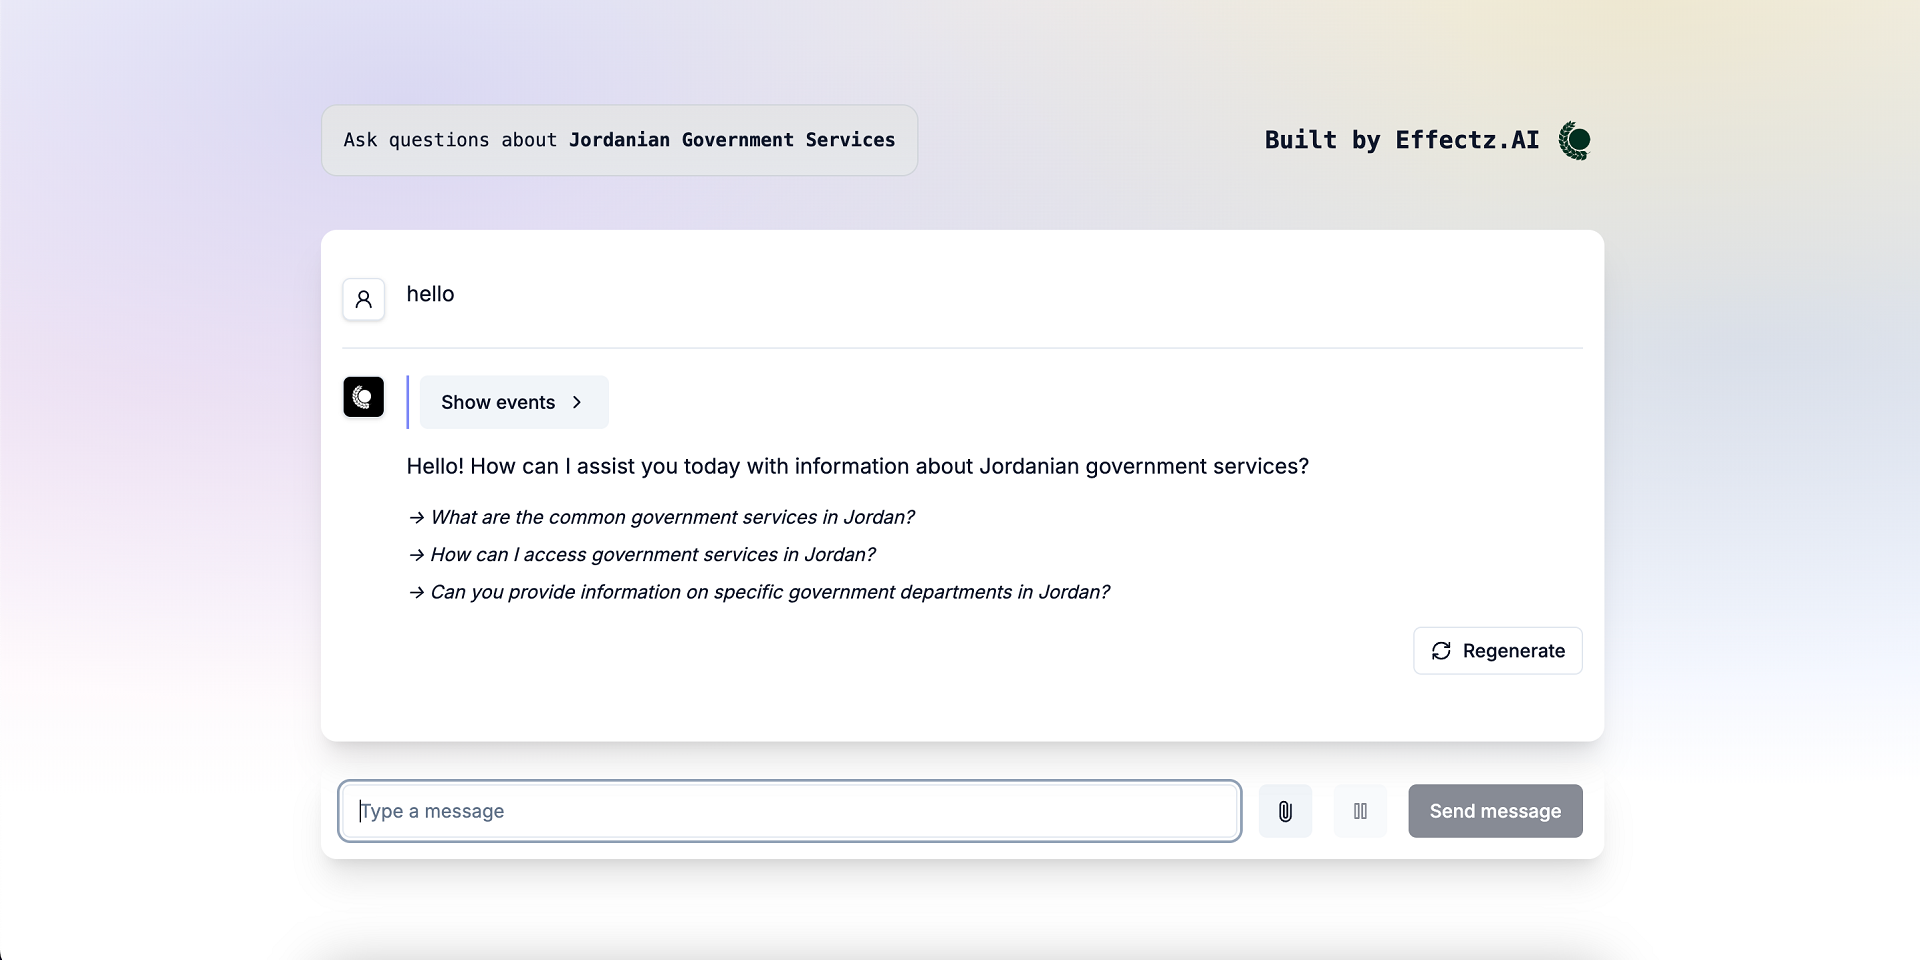
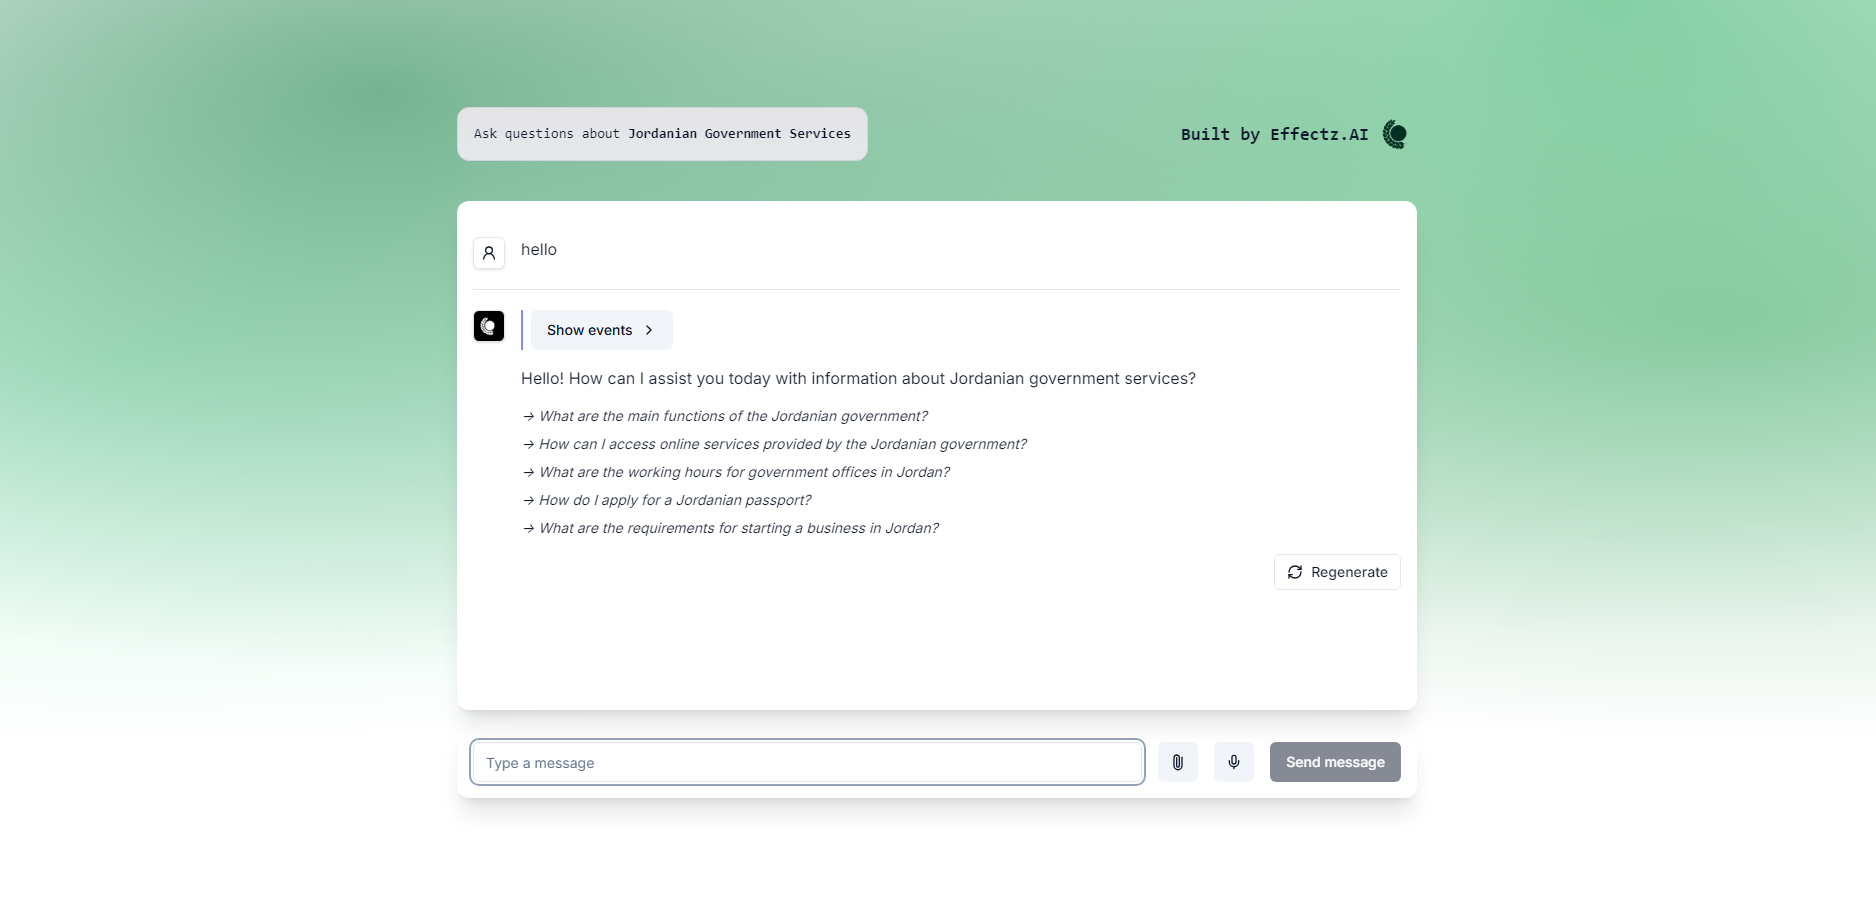
Changed chat background

diff --git a/effectzgpt/frontend/app/globals.css b/effectzgpt/frontend/app/globals.css
@@ -85,13 +85,10 @@
   }
   .background-gradient {
     background-color: #fff;
-    background-image: radial-gradient(
-        at 21% 11%,
-        rgba(186, 186, 233, 0.53) 0,
-        transparent 50%
-      ),
-      radial-gradient(at 85% 0, hsla(46, 57%, 78%, 0.52) 0, transparent 50%),
-      radial-gradient(at 91% 36%, rgba(194, 213, 255, 0.68) 0, transparent 50%),
-      radial-gradient(at 8% 40%, rgba(251, 218, 239, 0.46) 0, transparent 50%);
+    background-image: 
+    radial-gradient(at 21% 11%, rgba(5, 114, 54, 0.53) 0, transparent 50%), 
+    radial-gradient(at 85% 0, hsla(146, 64%, 41%, 0.52) 0, transparent 50%), 
+    radial-gradient(at 91% 36%, rgba(127, 194, 148, 0.68) 0, transparent 50%), 
+    radial-gradient(at 8% 40%, rgba(146, 240, 193, 0.46) 0, transparent 50%);
   }
 }
